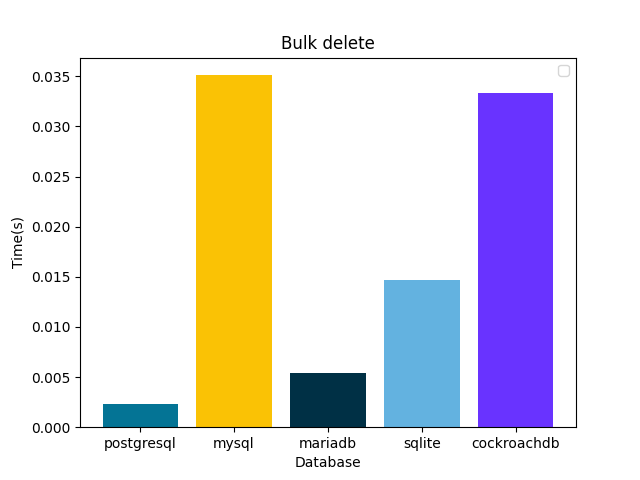
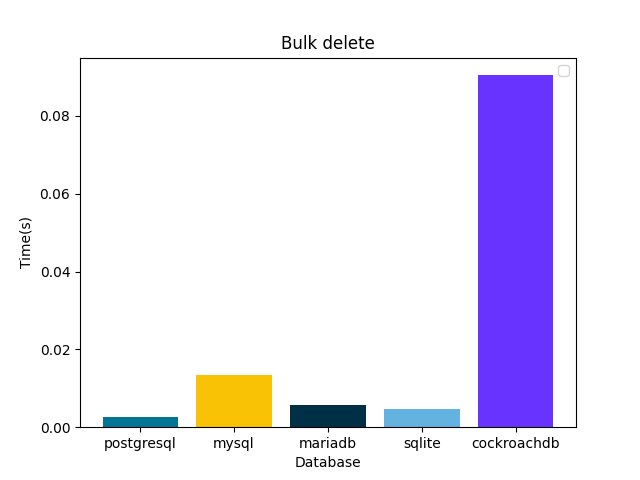
Add aws tested result

diff --git a/README.md b/README.md
@@ -4,12 +4,13 @@
 - MySQL
 - MariaDB
 - SQLite
+- CockoroachDB
 
 Comparing database operation performance using django ORM.
 
-PostgreSQL vs MySQL vs MariaDB vs SQLite
+PostgreSQL vs MySQL vs MariaDB vs SQLite vs CockoroachDB
 
-
+### The results given below are based on AWS T2 micro
 
 ## Insert performance comparison 
 Tested 1000 row insert in all databases and calculated time is taken.
